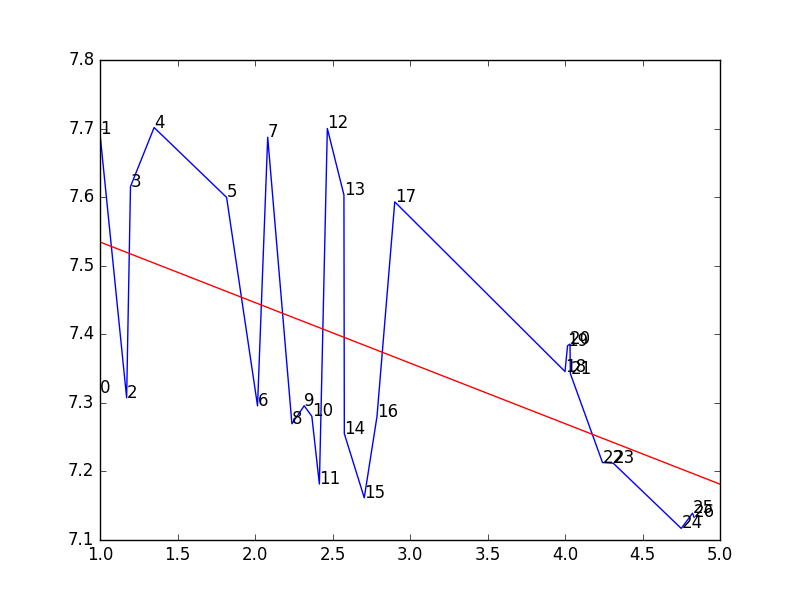
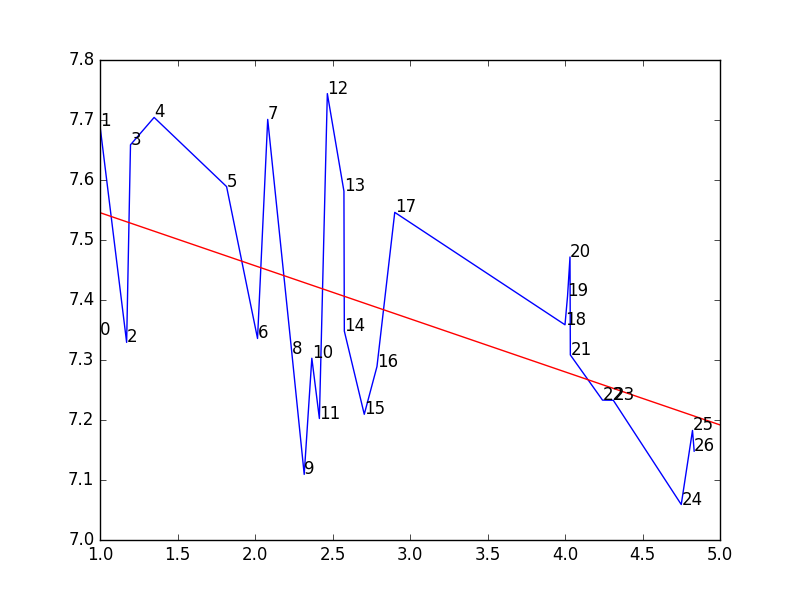
update pour ssim

diff --git a/code/image-evaluator/python/main.py b/code/image-evaluator/python/main.py
@@ -81,6 +81,13 @@ def plot_psnr(db, distortions):
     ax.errorbar(x, y, yerr=err, linestyle='None', marker='.', color='red')
     plt.subplots_adjust(left=0.06, bottom=0.29, right=0.95, top=0.95, wspace=0, hspace=0)
 
+def distance_to_line(m, c, stats, mos):
+    l = []
+    for i in range(len(stats)):
+        l += [m * float(mos[i][0]) + c - float(stats[i][0])]
+
+    return l
+    
 def plot_mos_stat(db, stat, distortions):
     plt.clf()
     
@@ -94,6 +101,8 @@ def plot_mos_stat(db, stat, distortions):
     A = np.vstack([mos[:,0], np.ones(len(mos[:,0]))]).T
     m, c = np.linalg.lstsq(A, stats[:,0])[0]
     l = map(lambda x: m * x + c, range(1,6))
+
+    distance_to_line(m, c, stats, mos)
     
     plt.plot(range(1,6), l, 'r', label='Fitted line')
     plt.savefig("images/" + "mos_" + stat + ".png")
@@ -119,12 +128,14 @@ def plot_distortion_mos(db, distortions):
         plt.savefig("images/" + d + ".png")
 
 def stats_array(db, distortions):
-    stat_names = ["psnr", "entropy", "corr_horiz", "corr_vert", "uaci", "npcr"]
+    stat_names = ["psnr", "entropy", "corr_horiz", "corr_vert", "uaci", "npcr", "ssim", "chisquare"]
     mos = get_filtered_mos(db, distortions)
     stats = []
 
     for name in stat_names:
-        stats.append(get_stat(db, name, distortions))
+        stats += [get_stat(db, name, distortions)]
+
+    print stats
 
     s = "  index\t|  MOS\t\t|"
     for name in stat_names:
@@ -174,21 +185,22 @@ def main():
     ]
 
     d = plot_mos(db, distortions, False)
-    # plot_psnr(db, d)
-    # plt.show()
 
+    for a in zip(range(len(d)), d):
+        print a
+    
     plot_mos_stat(db, "psnr", d)
     plot_mos_stat(db, "entropy", d)
     plot_mos_stat(db, "corr_horiz", d)
     plot_mos_stat(db, "corr_vert", d)
     plot_mos_stat(db, "uaci", d)
     plot_mos_stat(db, "npcr", d)
-
+    plot_mos_stat(db, "chisquare", d)
+    plot_mos_stat(db, "ssim", d)
 
     stats_array(db, d)
 
     plot_distortion_mos(db, d)
-    # plot_psnr(db, d)
 
     # find_extremes(db, d[16])
     
